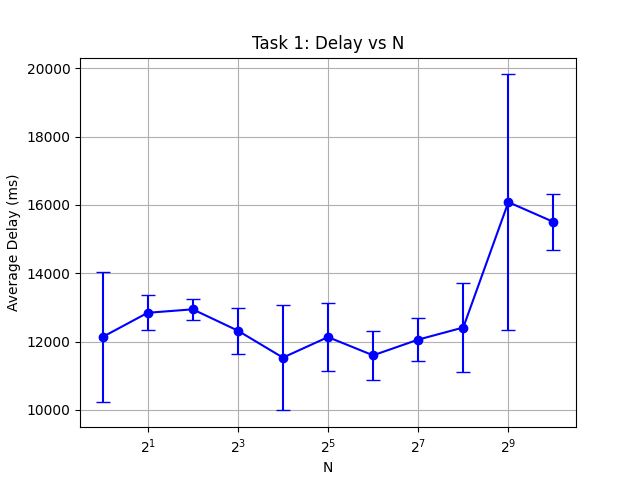
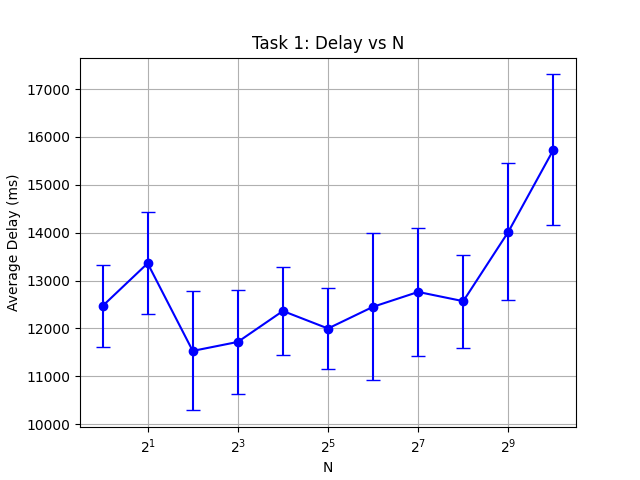
update images

diff --git a/client.py b/client.py
@@ -48,22 +48,23 @@ def main():
     transfer_start_time = get_time_ms()
 
     while not file_eof or base < nextseqnum:
-        # Buffer bytes
-        if not file_eof and len(file_buffer) < MSS:
-            bytes_to_read = MSS - len(file_buffer)
-            data = fp.read(bytes_to_read)
-            file_buffer.extend(data)
-            if len(data) < bytes_to_read:
-                file_eof = True
+        # Send packets to fill the window (single file-read path)
+        while nextseqnum < base + N:
+            # Refill buffer if empty
+            if len(file_buffer) == 0:
+                if file_eof:
+                    break
+                data = fp.read(MSS)
+                file_buffer = bytearray(data)
+                if len(data) < MSS:
+                    file_eof = True
+                if len(file_buffer) == 0:
+                    break
 
-        # Send packets
-        while nextseqnum < base + N and (len(file_buffer) == MSS or (file_eof and len(file_buffer) > 0)):
             slot = nextseqnum % N
             
-            # Prepare packet
-            temp_hdr = struct.pack(HEADER_FORMAT, nextseqnum, 0, DATA_PACKET_TYPE)
-            pkt_without_checksum = temp_hdr + file_buffer
-            chksum = calculate_checksum(pkt_without_checksum)
+            # Prepare packet — checksum over payload bytes only
+            chksum = calculate_checksum(bytes(file_buffer))
             
             # Final packet
             pkt = struct.pack(HEADER_FORMAT, nextseqnum, chksum, DATA_PACKET_TYPE) + file_buffer
@@ -75,13 +76,7 @@ def main():
                 timer_start_ms = get_time_ms()
             
             nextseqnum += 1
-            file_buffer.clear()
-            
-            if not file_eof:
-                data = fp.read(MSS)
-                file_buffer.extend(data)
-                if len(data) < MSS:
-                    file_eof = True
+            file_buffer = bytearray()
 
         # Handle timers and ACKs
         timeout = 0
@@ -97,7 +92,7 @@ def main():
                 timer_start_ms = get_time_ms()
                 remaining_ms = TIMEOUT_MS
                 
-            timeout = remaining_ms / 1000.0
+            timeout = max(0, remaining_ms) / 1000.0
         else:
             timeout = 0.01
             
@@ -116,9 +111,8 @@ def main():
             except Exception:
                 pass
 
-    # EOF Signaling
-    eof_pkt_without_checksum = struct.pack(HEADER_FORMAT, nextseqnum, 0, EOF_PACKET_TYPE)
-    eof_chksum = calculate_checksum(eof_pkt_without_checksum)
+    # EOF Signaling — checksum over payload only (empty, as EOF carries no data)
+    eof_chksum = calculate_checksum(b"")
     eof_pkt = struct.pack(HEADER_FORMAT, nextseqnum, eof_chksum, EOF_PACKET_TYPE)
 
     eof_acked = False

diff --git a/server.py b/server.py
@@ -59,10 +59,9 @@ def main():
         if pkt_type != DATA_PACKET_TYPE:
             continue
 
-        # Verify checksum
-        # Set checksum field to 0 for calculation
-        temp_buffer = buffer[:4] + struct.pack("!H", 0) + buffer[6:]
-        calculated_checksum = calculate_checksum(temp_buffer)
+        # Verify checksum over payload bytes only (mirrors client-side computation)
+        payload = buffer[HEADER_SIZE:]
+        calculated_checksum = calculate_checksum(payload)
 
         if received_checksum != calculated_checksum:
             continue

diff --git a/common.py b/common.py
@@ -13,8 +13,8 @@ def calculate_checksum(data: bytes) -> int:
     i = 0
     
     while length > 1:
-        # Simulate little-endian read of 16-bit unsigned int
-        word = data[i] | (data[i+1] << 8)
+        # Big-endian read of 16-bit unsigned int (matches UDP checksum standard)
+        word = (data[i] << 8) | data[i+1]
         sum_val += word
         i += 2
         length -= 2
